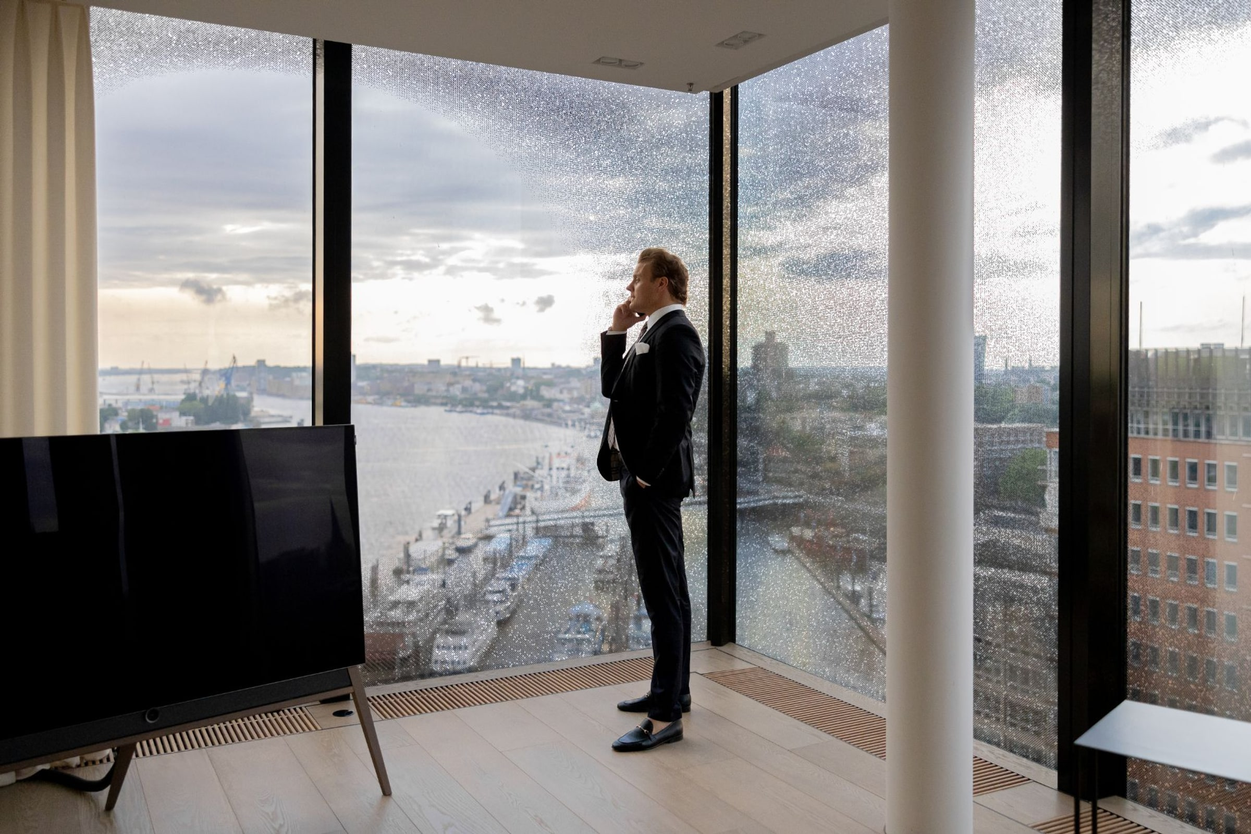
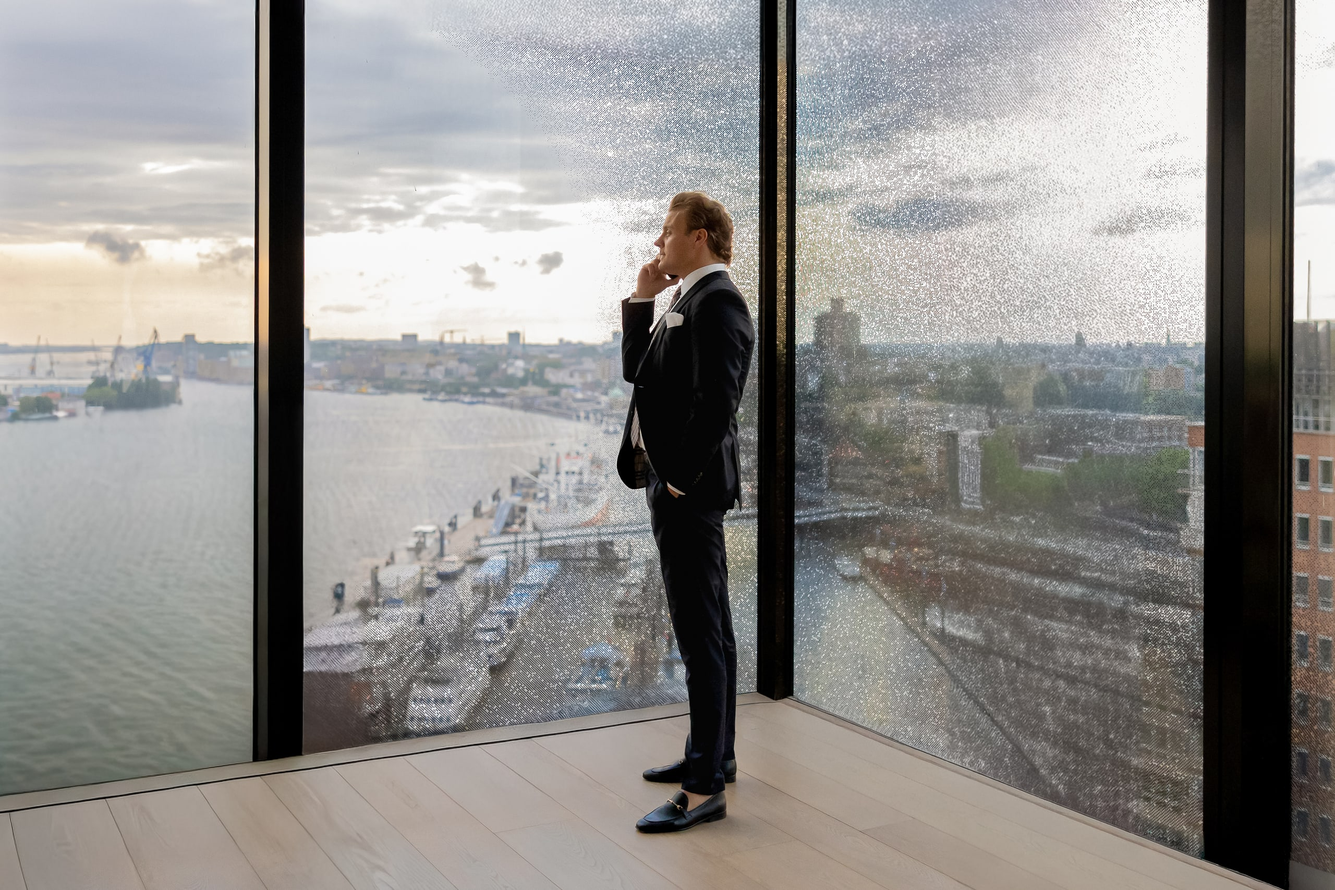
Homepage hero: new retouched version of Meins harbour window shot, mobile crop keeps person centered

diff --git a/src/data/photos.ts b/src/data/photos.ts
@@ -38,7 +38,7 @@ export const photos: Record<string, PhotoSpec> = {
     format: 'Querformat, sehr breit',
     motif: 'Björn Meins',
     file: 'meins-fenster-hafen',
-    position: '52% 50%',
+    position: '50% 55%',
   },
   'home-eb': {
     alt: 'Tierärztin untersucht lächelnd eine Katze mit dem Stethoskop.',

diff --git a/src/styles/global.css b/src/styles/global.css
@@ -353,3 +353,10 @@
 .date-field:hover::-webkit-calendar-picker-indicator {
   opacity: 0.9;
 }
+
+/* Startbild: auf schmalen Bildschirmen Person mittig halten */
+@media (max-width: 767px) {
+  .hero-home img {
+    object-position: 51% 50% !important;
+  }
+}
